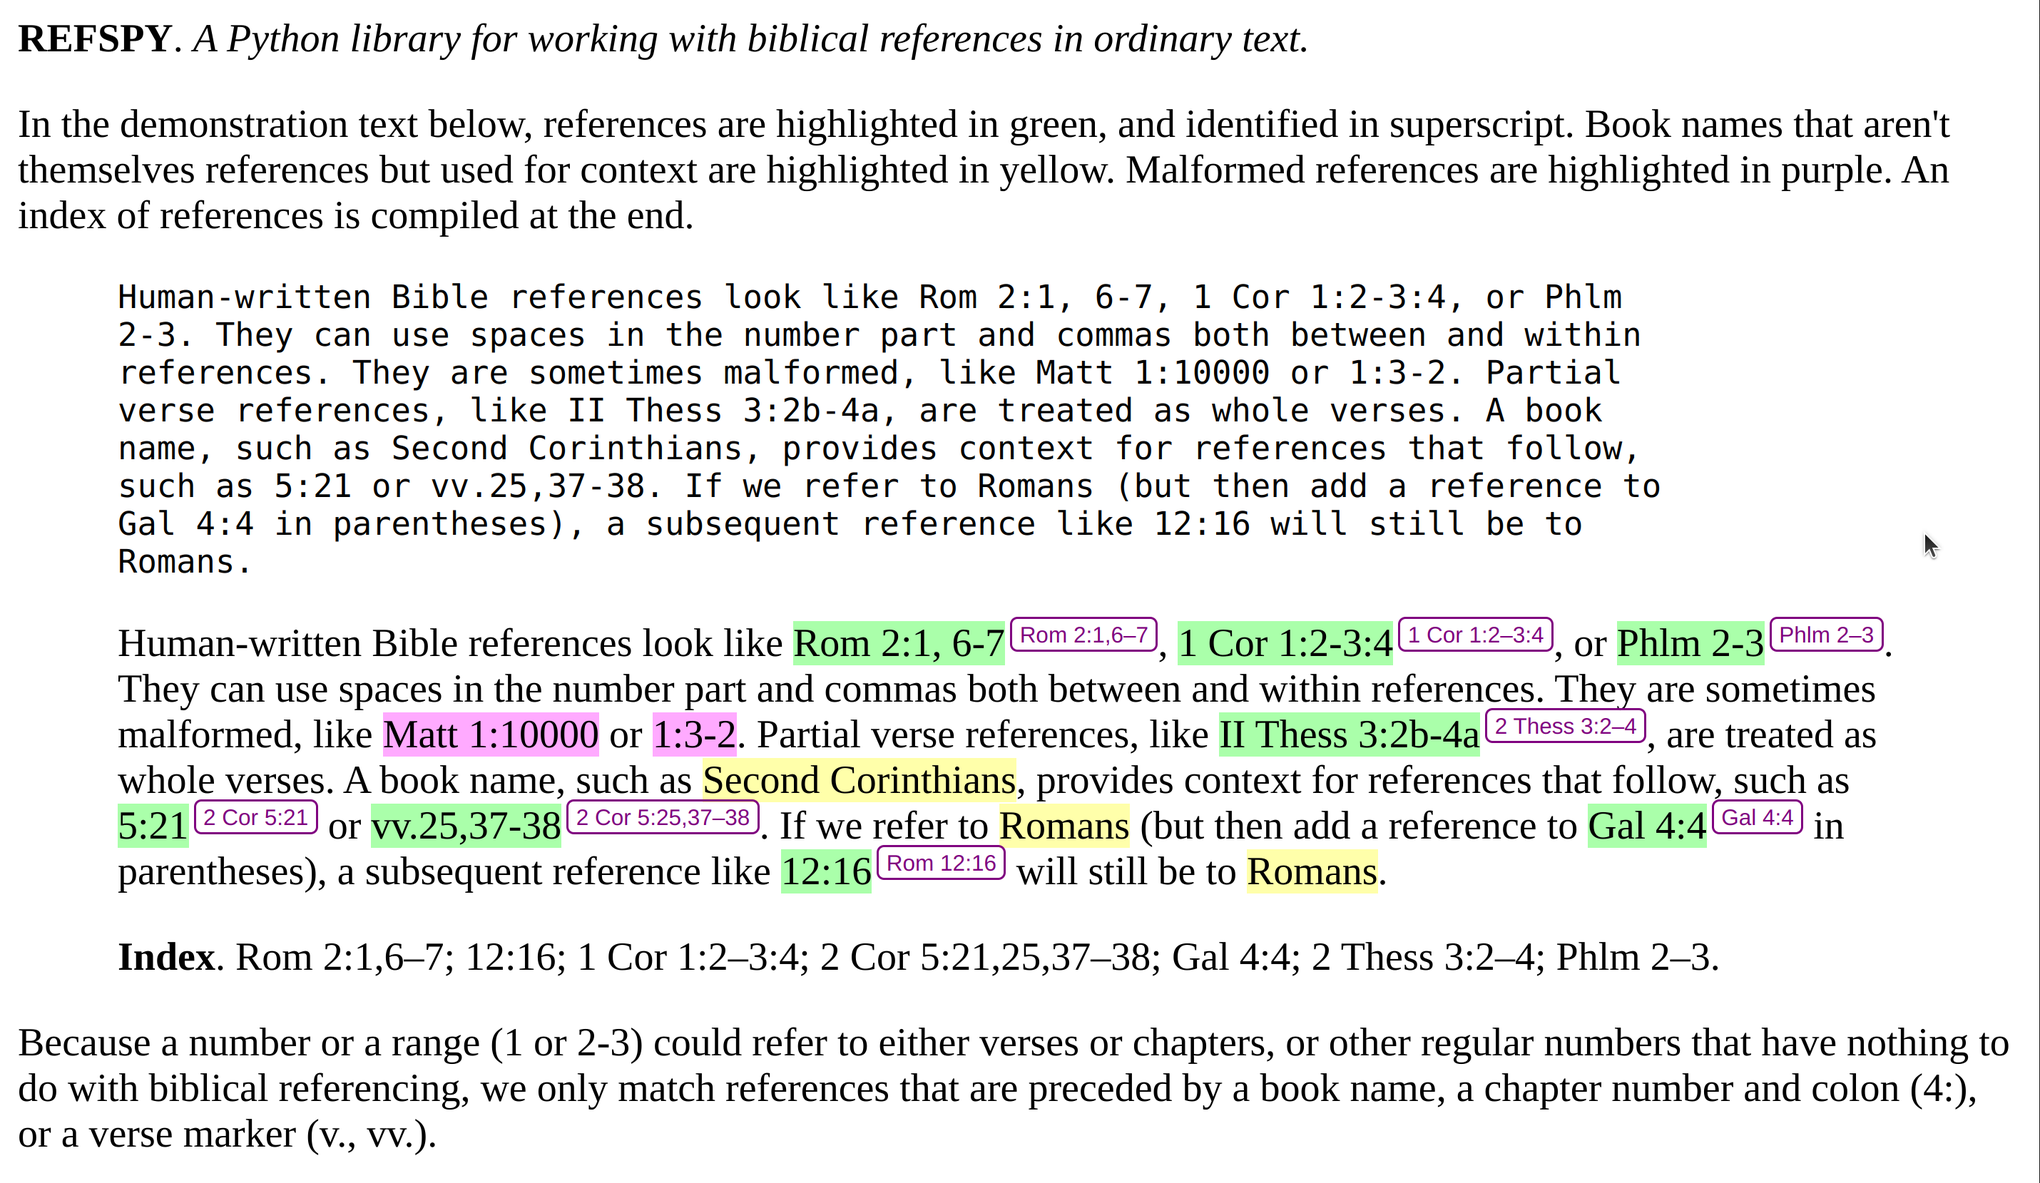
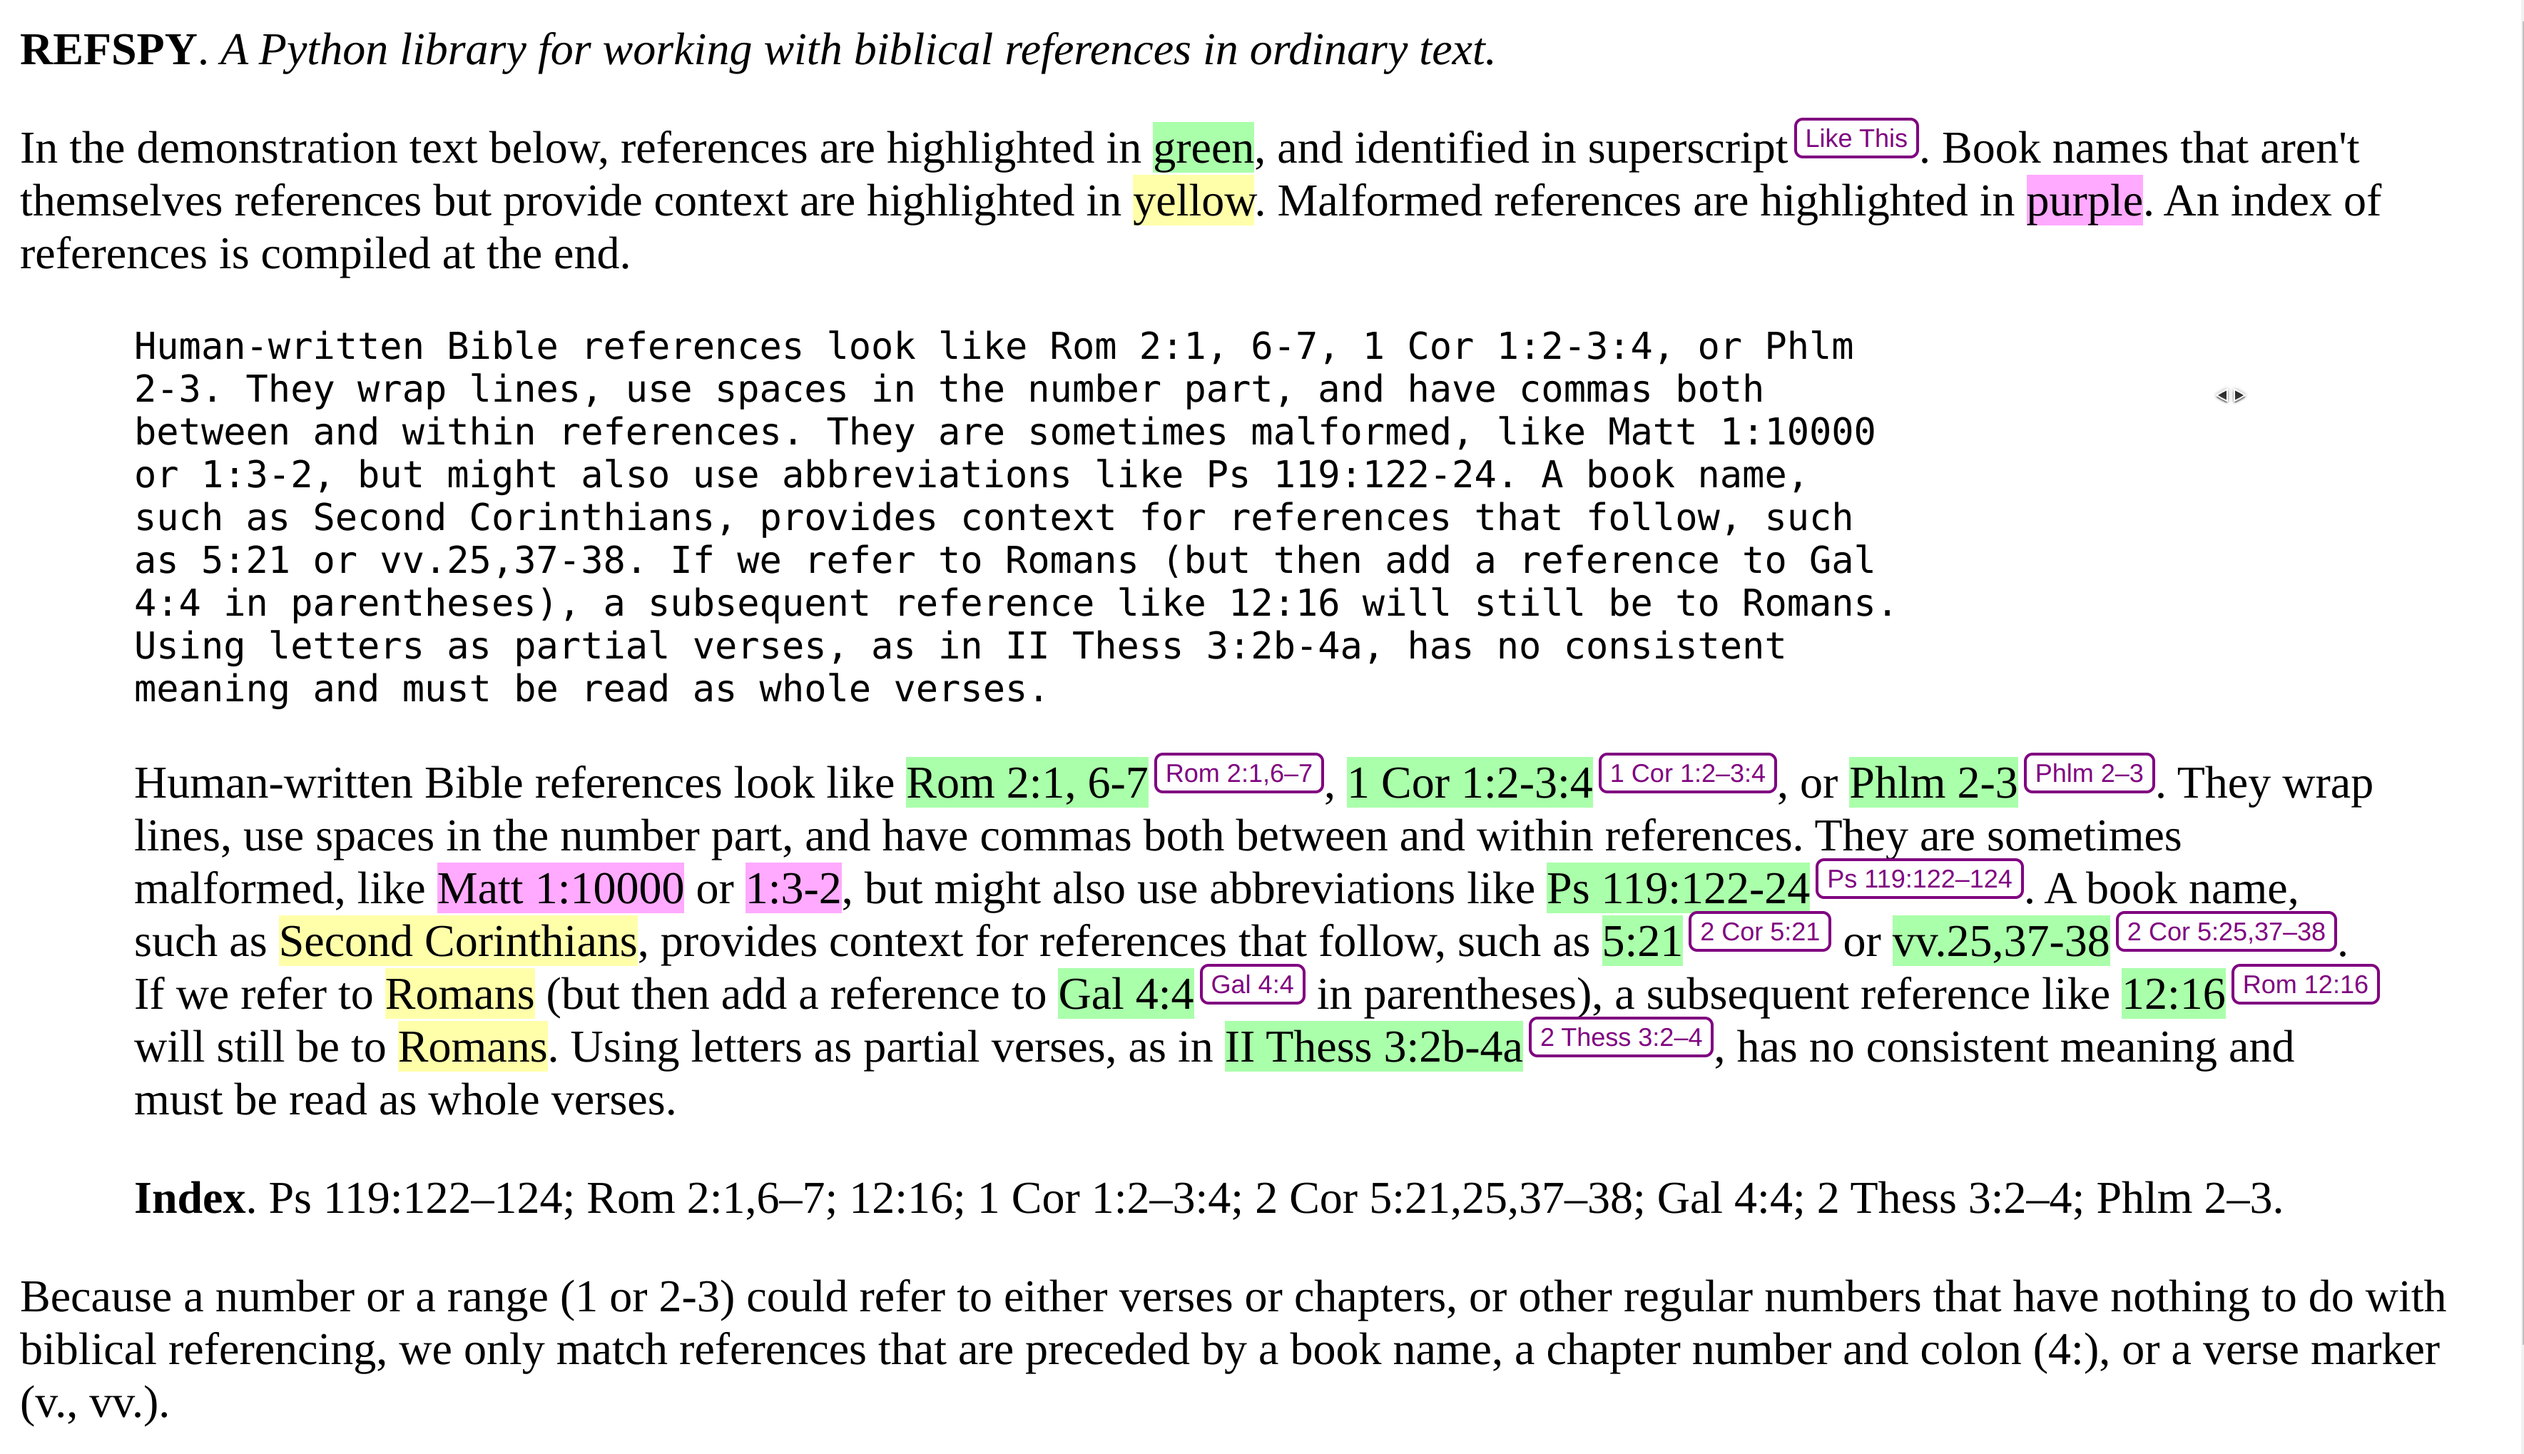
Add new features to demo

diff --git a/demo.html b/demo.html
@@ -1,0 +1,57 @@
+
+<html>
+    <head>
+        <style>
+            a { text-decoration: none; }
+            sup { font-family: sans-serif; font-size: xx-small;
+                  color: purple; padding: 1px 3px; border: 1px solid purple;
+                  border-radius: 3px; margin-left: 2px; }
+            .green { background-color: #aaffaa; }
+            .purple { background-color: #ffaaff; }
+            .yellow { background-color: #ffffaa; }
+        </style>
+    </head>
+    <body>
+        <p><b>REFSPY</b>. <i>A Python library for working with biblical
+        references in ordinary text.</i></p>
+        <p>In the demonstration text below, references are highlighted in <span
+        class="green">green</span>, and identified in superscript<sup>Like
+        This</sup>. Book names that aren't themselves references but provide
+        context are highlighted in <span class="yellow">yellow</span>.
+        Malformed references are highlighted in <span
+        class="purple">purple</span>. An index of references is compiled at the
+        end.</p>
+
+
+
+        <blockquote><pre>
+Human-written Bible references look like Rom 2:1, 6-7, 1 Cor 1:2-3:4, or Phlm
+2-3. They wrap lines, use spaces in the number part, and have commas both
+between and within references. They are sometimes malformed, like Matt 1:10000
+or 1:3-2, but might also use abbreviations like Ps 119:122-24. A book name,
+such as Second Corinthians, provides context for references that follow, such
+as 5:21 or vv.25,37-38. If we refer to Romans (but then add a reference to Gal
+4:4 in parentheses), a subsequent reference like 12:16 will still be to Romans.
+Using letters as partial verses, as in II Thess 3:2b-4a, has no consistent
+meaning and must be read as whole verses.
+</pre></blockquote>
+        <blockquote>
+Human-written Bible references look like <span class="green">Rom 2:1, 6-7</span><sup>Rom 2:1,6–7</sup>, <span class="green">1 Cor 1:2-3:4</span><sup>1 Cor 1:2–3:4</sup>, or <span class="green">Phlm
+2-3</span><sup>Phlm 2–3</sup>. They wrap lines, use spaces in the number part, and have commas both
+between and within references. They are sometimes malformed, like <span class="purple">Matt 1:10000</span>
+or <span class="purple">1:3-2</span>, but might also use abbreviations like <span class="green">Ps 119:122-24</span><sup>Ps 119:122–124</sup>. A book name,
+such as <span class="yellow">Second Corinthians</span>, provides context for references that follow, such
+as <span class="green">5:21</span><sup>2 Cor 5:21</sup> or <span class="green">vv.25,37-38</span><sup>2 Cor 5:25,37–38</sup>. If we refer to <span class="yellow">Romans</span> (but then add a reference to <span class="green">Gal
+4:4</span><sup>Gal 4:4</sup> in parentheses), a subsequent reference like <span class="green">12:16</span><sup>Rom 12:16</sup> will still be to <span class="yellow">Romans</span>.
+Using letters as partial verses, as in <span class="green">II Thess 3:2b-4a</span><sup>2 Thess 3:2–4</sup>, has no consistent
+meaning and must be read as whole verses.
+</blockquote>
+        <blockquote><b>Index</b>. Ps 119:122–124; Rom 2:1,6–7; 12:16; 1 Cor 1:2–3:4; 2 Cor 5:21,25,37–38; Gal 4:4; 2 Thess 3:2–4; Phlm 2–3.</blockquote>
+        <p> Because a number or a range (1 or 2-3) could refer to either verses or
+        chapters, or other regular numbers that have nothing to do with biblical
+        referencing, we only match references that are preceded by a book name, a
+        chapter number and colon (4:), or a verse marker (v., vv.).</p>
+        <p>Generated by: <a href="https://github.com/eukras/refspy/demo.py">https://github.com/eukras/refspy/demo.py</a><p>
+    </body>
+</html>
+

diff --git a/demo.py b/demo.py
@@ -6,19 +6,24 @@ URL = "https://github.com/eukras/refspy/demo.py"
 __ = refspy()
 
 text = """
-Human-written Bible references look like Rom 1:1, 6-7, 1 Cor 2-3, or Phlm 2-3.
-They can use spaces in the number part and commas between references. A
-reference to a book, say Second Corinthians, will provide context for
-references that follow, say, 5:21 or vv.25,37-38. If we refer to say Romans
-(but then add a reference to Gal 4:4 in parentheses), a subsequent reference
-like 12:16 will still be to Romans.
+Human-written Bible references look like Rom 2:1, 6-7, 1 Cor 1:2-3:4, or Phlm
+2-3. They wrap lines, use spaces in the number part, and have commas both
+between and within references. They are sometimes malformed, like Matt 1:10000
+or 1:3-2, but might also use abbreviations like Ps 119:122-24. A book name,
+such as Second Corinthians, provides context for references that follow, such
+as 5:21 or vv.25,37-38. If we refer to Romans (but then add a reference to Gal
+4:4 in parentheses), a subsequent reference like 12:16 will still be to Romans.
+Using letters as partial verses, as in II Thess 3:2b-4a, has no consistent
+meaning and must be read as whole verses.
 """
 
-matches = __.find_references(text, include_books=True)
+matches = __.find_references(text, include_books=True, include_nones=True)
 strs, tags = [], []
 for match_str, ref in matches:
     strs.append(match_str)
-    if ref.is_book():
+    if ref is None:
+        tags.append(f'<span class="purple">{match_str}</span>')
+    elif ref.is_book():
         tags.append(f'<span class="yellow">{match_str}</span>')
     else:
         tags.append(
@@ -26,10 +31,10 @@ for match_str, ref in matches:
         )
 index = []
 for library, book_collation in __.collate(
-    sorted([ref for _, ref in matches if not ref.is_book()])
+    sorted([ref for _, ref in matches if ref and not ref.is_book()])
 ):
     for book, reference_list in book_collation:
-        new_reference = __.merge(reference_list)
+        new_reference = __.sort_references(reference_list)
         index.append(__.abbrev(new_reference))
 
 
@@ -42,20 +47,24 @@ print("""
                   color: purple; padding: 1px 3px; border: 1px solid purple;
                   border-radius: 3px; margin-left: 2px; }
             .green { background-color: #aaffaa; }
+            .purple { background-color: #ffaaff; }
             .yellow { background-color: #ffffaa; }
         </style>
     </head>
     <body>
         <p><b>REFSPY</b>. <i>A Python library for working with biblical
         references in ordinary text.</i></p>
-        <p>In the demonstration text below, references are highlighted in
-        green, while book names that aren't themselves references but are used
-        for context are highlighted in yellow. The identified references are
-        noted in superscript, and an index is compiled at the end.</p>
+        <p>In the demonstration text below, references are highlighted in <span
+        class="green">green</span>, and identified in superscript<sup>Like
+        This</sup>. Book names that aren't themselves references but provide
+        context are highlighted in <span class="yellow">yellow</span>.
+        Malformed references are highlighted in <span
+        class="purple">purple</span>. An index of references is compiled at the
+        end.</p>
 
 """)
 print(f"""
-        <pre>{text}</pre>
+        <blockquote><pre>{text}</pre></blockquote>
         <blockquote>{sequential_replace(text, strs, tags)}</blockquote>
         <blockquote><b>Index</b>. {"; ".join(index)}.</blockquote>
         <p> Because a number or a range (1 or 2-3) could refer to either verses or
